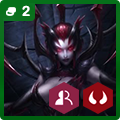
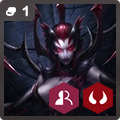
Updated Resources to fit new patch

Changed region(s): [[0.0, 0.0, 1.0, 1.0]]

diff --git a/README.md b/README.md
@@ -1,15 +1,6 @@
 # TFT Overlay by Cibe
 
-If you want to give any kind of support wich is really apreciated here's a couple of links to do that
-
-https://ko-fi.com/xcibe95x || https://www.patreon.com/xcibe95x !! Paypal: xcibe95x@gmail.com
-
-You can also support by following this socials
-(They are a bit outdated as now, but going back to them soon)
-
-https://youtube.com/xcibe95x || https://www.facebook.com/ConstraintsGame/ || https://www.facebook.com/xcibe95x || https://twitter.com/xcibe95x
-
-`Updating some assets and implementing the Champions List`
+`Everything except Drop Rates is now always automatically updated, you will just be missing assets like the new champions image, but they will still show up in champ list.`
 
 `I'm working to release the very first version of Legends of the League (Riot Approved LOL Based CCG) at https://lol.playconstraints.com/ (Website not fully optimized yet)
 I'm gonna take a break to finish it after 2.2, but i will keep pushing small updates`
@@ -27,6 +18,11 @@ I'm gonna take a break to finish it after 2.2, but i will keep pushing small upd
 - Right click on the title bar for the context menu
 
 ## Version Changelogs
+- **2.2.2**
+  - Changelog  
+    - Adjusted Elise Tier List icon to reflect the new cost
+	- Added Twisted Fate Assets
+
 - **2.2.1**
   - Changelog  
     - Searchbox for championslist
